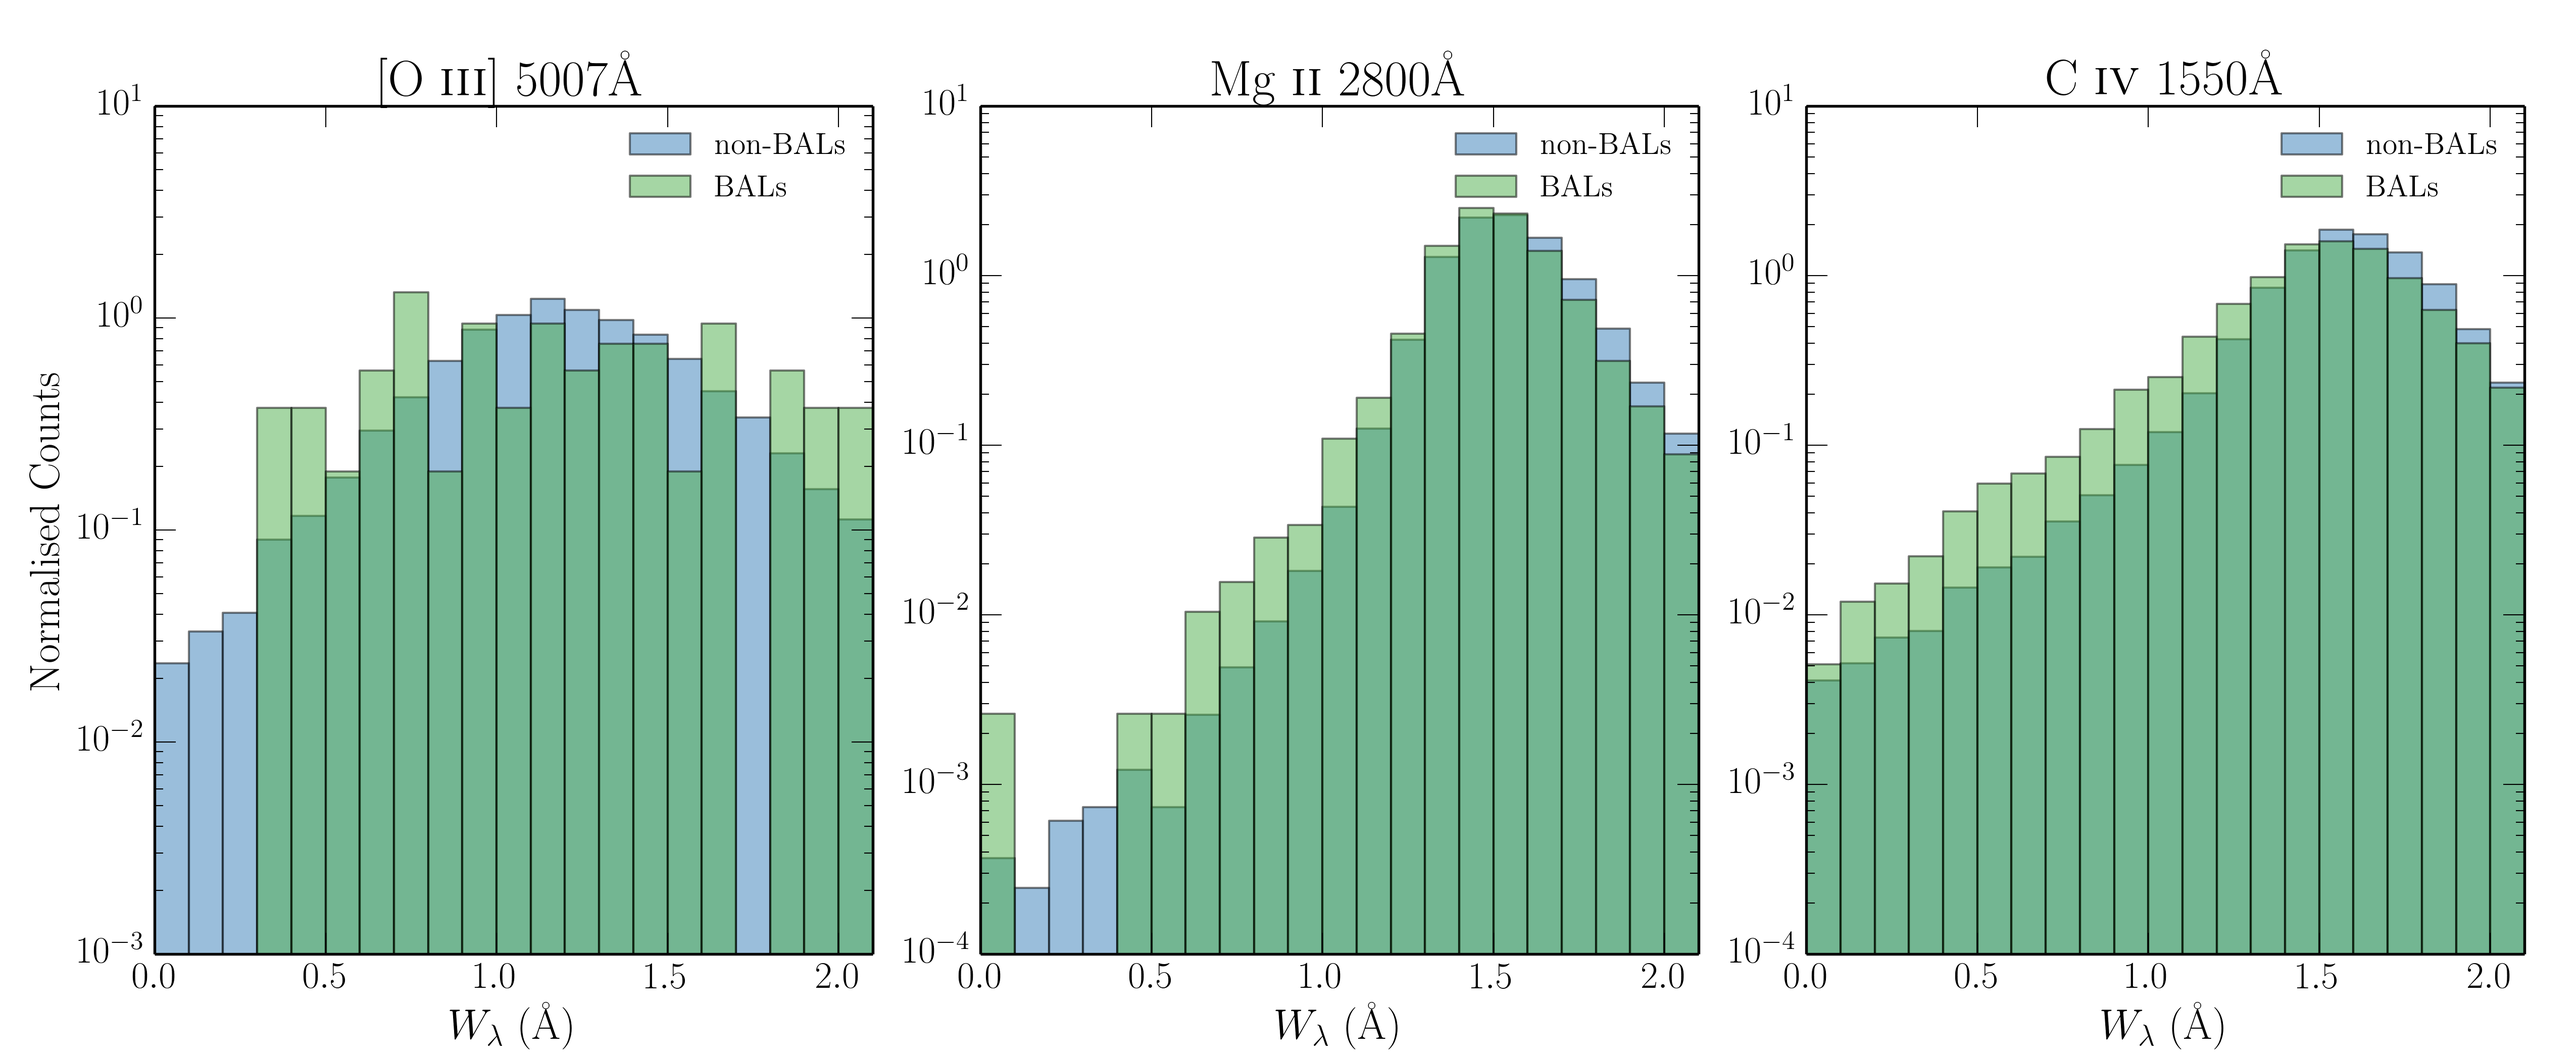
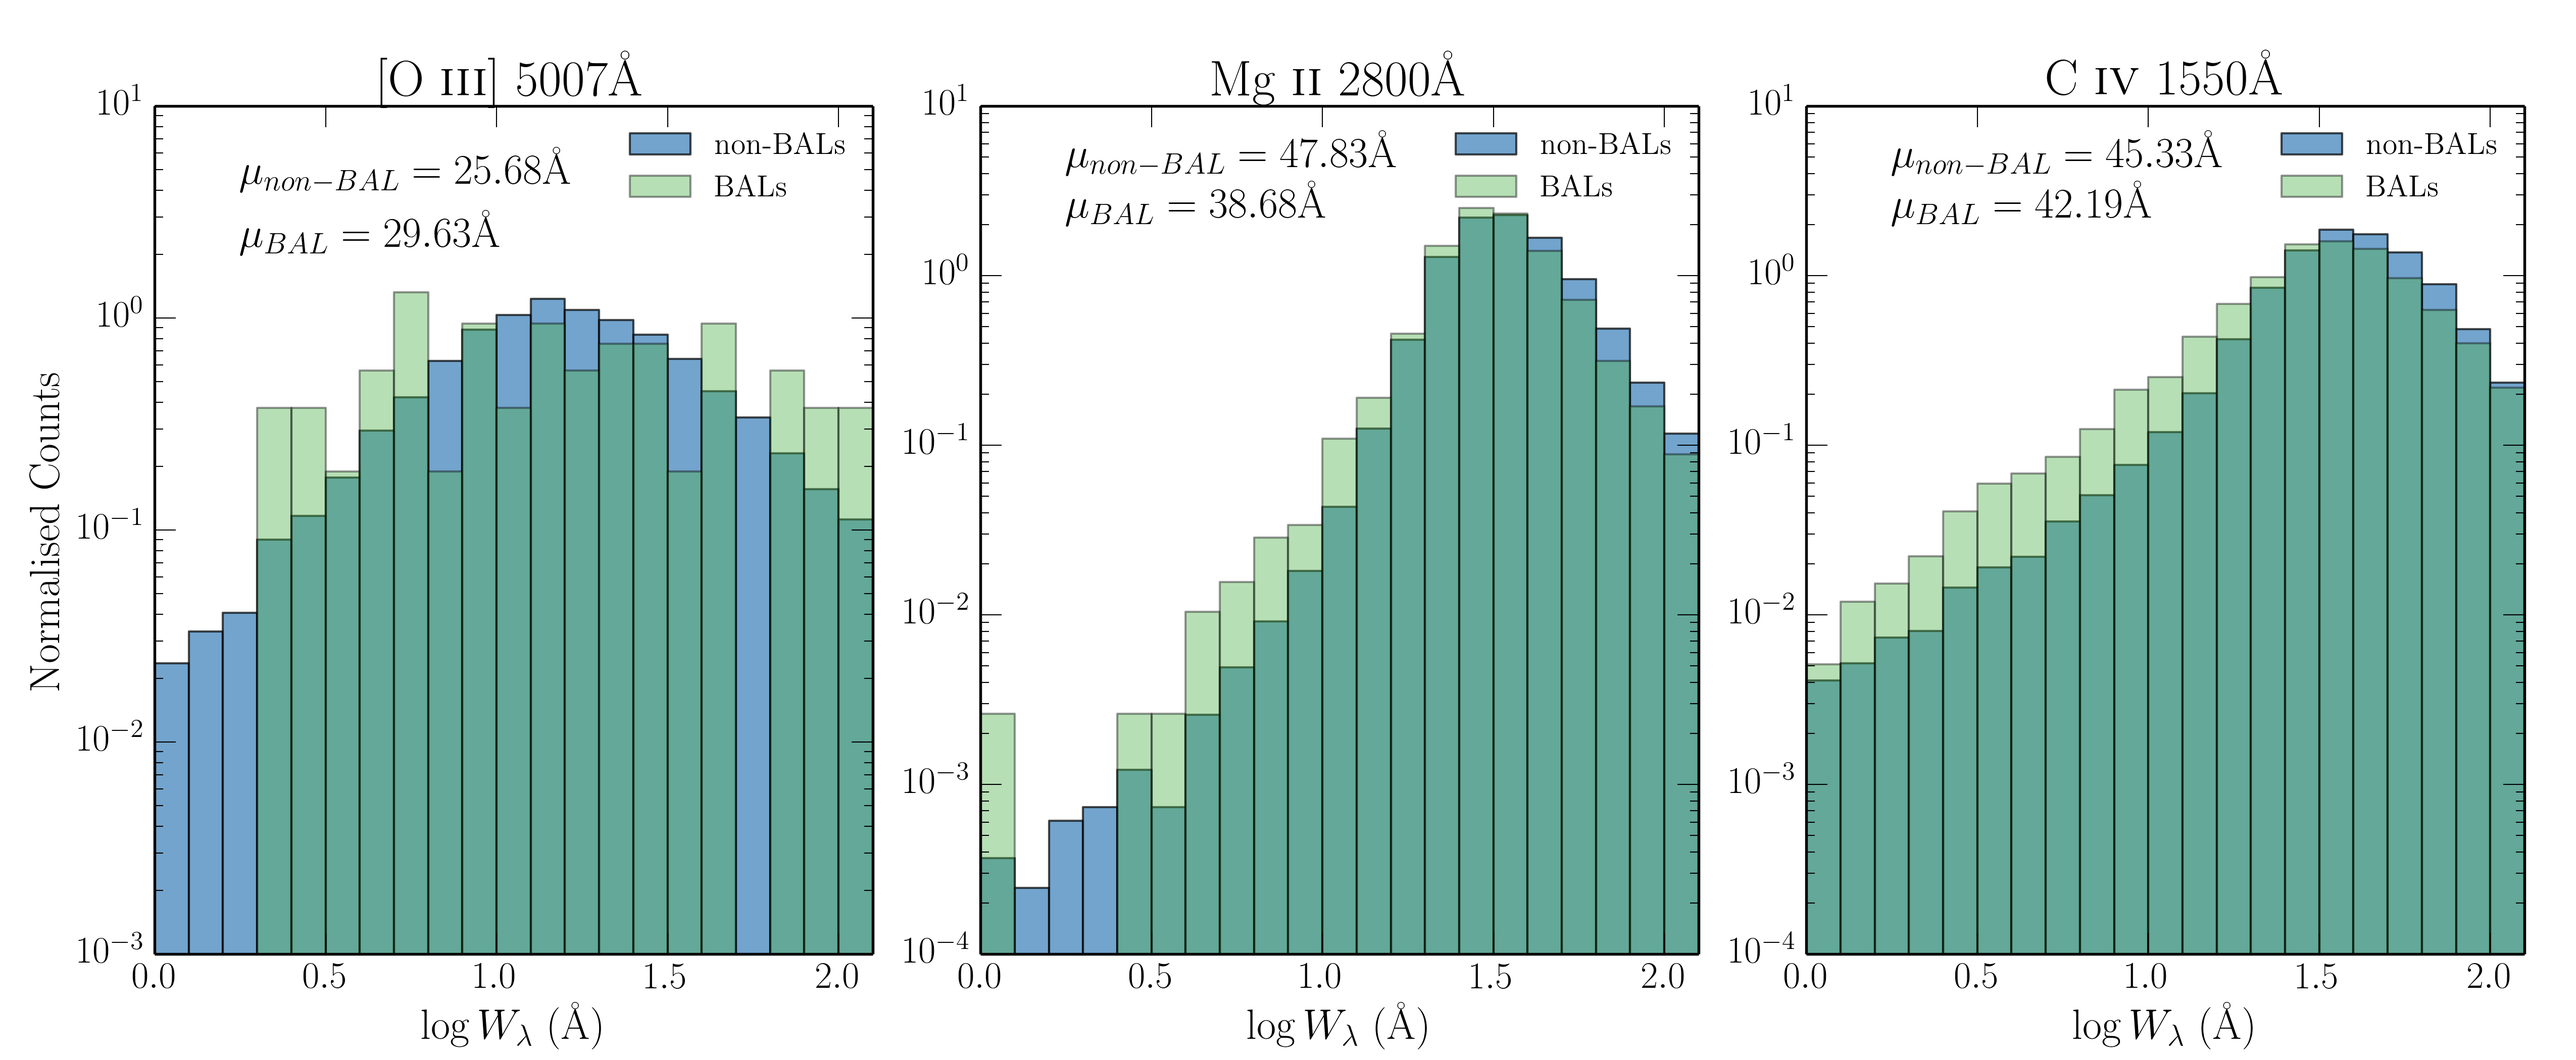
made some changes

diff --git a/ew_stats/ew_stats_main.py b/ew_stats/ew_stats_main.py
@@ -181,6 +181,7 @@ class selection:
 	def __init__(self, data):
 
 		redshift_lims = (3800.0 / 2800.0 - 1.0, 9200.0 / 5007.0 - 1.0)
+		redshift_lims_b = (3800.0 / 1550.0 - 1.0, 9200.0 / 2800.0 - 1.0)
 
 		self.nonbal = (data["bal_flag"] == 0) 
 		self.mgbal = (data["bal_flag"] == 2)
@@ -188,6 +189,8 @@ class selection:
 		self.has_o3 = (data["ew_o3"] > 0)
 		self.mass = None
 		self.general = self.has_o3 * self.z
+		self.a = (data["z"] > redshift_lims[0]) * (data["z"] < redshift_lims[1])
+		self.b = (data["z"] > redshift_lims_b[0]) * (data["z"] < redshift_lims_b[1])
 
 
 
@@ -373,6 +376,63 @@ class simulation:
 		return 0
 
 
+def make_hist(data, select):
+
+	strings = ["ew_o3", "ew_mg2", "ew_c4", "ew_mg2"]
+	selects = [select.a, select.a, select.b, select.b]
+	logbins = True
+	lims = [(0,150),(0,200),(0,200),(0,200)]
+	labels=[r"[O~\textsc{iii}]~$5007$\AA", r"Mg~\textsc{ii}~$2800$\AA", r"C~\textsc{iv}~$1550$\AA", r"Mg~\textsc{ii}~$2800$\AA"]
+	NORM=True
+	# now make the histogram plot
+	set_pretty()
+	figure(figsize=(20,7))
+
+	for i in range(4):
+		subplot(1,4, i+1)
+		long_ticks()
+		#bins = np.arange(lims[i][0],lims[i][1],binsize[i])
+
+		if logbins: bins = np.arange(-2,4,0.1)
+
+
+		if logbins:
+			ews = np.log10(data[strings[i]])
+		else:
+			ews = ews_to_do[data[strings[i]]]
+	
+
+		hist(ews[selects[i]*select.nonbal],bins=bins, facecolor=colors[0], alpha=0.7, log=True, label="non-BALs", normed=NORM, stacked=True)
+		hist(ews[selects[i]*select.mgbal],bins=bins, facecolor=colors[1], alpha=0.4, log=True, label="BALs", normed=NORM, stacked=True)
+
+		if i == 0: ylabel("Normalised Counts", fontsize=20)
+
+		xlim(0,3)
+		ylim(1e-3,10)
+		ylimits = gca().get_ylim()
+		text(0.4*lims[i][1], 0.6*ylimits[1],labels[i], fontsize=20)
+		title(labels[i], fontsize=24)
+		#ylim(0,0.06)
+		xlabel(r"$\log [W_{\lambda}$ (\AA)]", fontsize=20)
+		#xlim(lims[i][0],lims[i][1])
+
+		text(0.25,4,r"$\mu_{non-BAL} = %.2f$\AA" % np.mean(10.0**ews[selects[i]*select.nonbal]), fontsize=20)
+		text(0.25,2,r"$\mu_{BAL} = %.2f$\AA" % np.mean(10.0**ews[selects[i]*select.mgbal]), fontsize=20)
+
+		if i == 0:
+			text(2,30,"Sample A, %i Mg BALs, %i non-BALs." % ( np.sum(selects[i]*select.mgbal), np.sum(selects[i]*select.nonbal) ) , fontsize=20)
+		if i == 2:
+			text(2,30,"Sample B, %i Mg BALs, %i non-BALs." % ( np.sum(selects[i]*select.mgbal), np.sum(selects[i]*select.nonbal) ) , fontsize=20)
+
+		if i == 0: 
+			float_legend()
+
+
+	subplots_adjust(wspace = 0.15, left= 0.06, right=0.98, top=0.85)
+	savefig("ew_hist_qsos.png", dpi=300)
+
+
+
 
 
 if __name__ == "__main__":
@@ -389,13 +449,23 @@ if __name__ == "__main__":
 	# then we select for BAL or no-BAL
 	select = selection(data)
 
-	# set up sim
-	sim = simulation(thetamin, thetamax, data)
+	mode = sys.argv[1]
 
-	# run sim
-	#sim.run(select)
-	sim.run_gauss(select)
+	if mode == "sim":
 
-	# make the contour plots
-	make_plots.plot_contour(sim)
-	make_plots.plot_contour2(sim)
+		# set up sim
+		sim = simulation(thetamin, thetamax, data)
+
+		# run sim
+		#sim.run(select)
+		sim.run_gauss(select)
+
+		# make the contour plots
+		make_plots.plot_contour(sim)
+		make_plots.plot_contour2(sim)
+
+	elif mode == "hist":
+
+		make_hist(data, select)
+
+

diff --git a/ew_with_hist.py b/ew_with_hist.py
@@ -13,7 +13,13 @@ from constants import *
 from pretty import *
 import scipy.stats as stats
 import matplotlib.mlab as mlab
+import seaborn as sns
 
+import seaborn.apionly as sns
+
+fig_size = (17,7)
+#sns.set(context="paper", style="dark",rc={'text.usetex': True,'figure.figsize': fig_size, 'font.family': [u'serif'], 'font.serif':[u'Computer Modern'], 'axes.linewidth': 0.7, 'xtick.major.width': 0.7})
+#sns.set_style({"xtick.direction": "in","ytick.direction": "in"})
 
 set_pretty()
 big_tick_labels(18)
@@ -25,18 +31,20 @@ bal_flag, r_flag, ews_o3, ews_mg2, ews_c4 = np.loadtxt("/Users/jmatthews/Documen
 select2 = (bal_flag == 0) 
 select3 = (bal_flag >= 1) 
 
-ews_to_do = [ews_o3, ews_mg2, ews_c4]
+red_lims = [(0.35,0.83),(0.35,0.83),(1.45,2.28),(1.45,2.28)]
+
+ews_to_do = [ews_o3, ews_mg2, ews_c4, ews_mg2]
 n_to_do = len(ews_to_do)
 
 lims = [(0,150),(0,200),(0,200)]
-binsize = [5,5,5]
+binsize = [5,5,5,5]
 labels=[r"[O~\textsc{iii}]~$5007$\AA", r"Mg~\textsc{ii}~$2800$\AA", r"C~\textsc{iv}~$1550$\AA"]
 
 NORM  = True
 THRESHOLDS = [30.0, 70.0]
 logbins = True
 # now make the histogram plot
-figure(figsize=(17,7))
+figure(figsize=(20,7))
 
 # loop over lines / subplots
 for i in range(n_to_do):
@@ -52,24 +60,31 @@ for i in range(n_to_do):
 	
 	#ews = np.log10(ews_to_do[i])
 
+
 	if logbins:
 		ews = np.log10(ews_to_do[i])
 	else:
 		ews = ews_to_do[i]
 
+	select1 = (ews>-3)
+
 	select1 = (ews>0) 
 	select2 = (bal_flag == 0) 
 	select3 = (bal_flag >= 1) 
 
-	hist(ews[select1*select2],bins=bins, facecolor=colors[0], alpha=0.5, log=True, label="non-BALs", normed=NORM, stacked=True)
-	hist(ews[select1*select3],bins=bins, facecolor=colors[1], alpha=0.5, log=True, label="BALs", normed=NORM, stacked=True)
+	hist(ews[select1*select2],bins=bins, facecolor=colors[0], alpha=0.7, log=True, label="non-BALs", normed=NORM, stacked=True)
+	hist(ews[select1*select3],bins=bins, facecolor=colors[1], alpha=0.4, log=True, label="BALs", normed=NORM, stacked=True)
 
 	ylimits = gca().get_ylim()
 	text(0.4*lims[i][1], 0.6*ylimits[1],labels[i], fontsize=24)
 	title(labels[i], fontsize=24)
 	#ylim(0,0.06)
-	xlabel(r"$W_{\lambda}$ (\AA)", fontsize=20)
+	xlabel(r"$\log [W_{\lambda}$ (\AA)]", fontsize=20)
 	#xlim(lims[i][0],lims[i][1])
+
+	text(0.25,4,r"$\mu_{non-BAL} = %.2f$\AA" % np.mean(10.0**ews[select1*select2]), fontsize=20)
+	text(0.25,2,r"$\mu_{BAL} = %.2f$\AA" % np.mean(10.0**ews[select1*select3]), fontsize=20)
+
 	if i == 0: 
 		float_legend()
 
